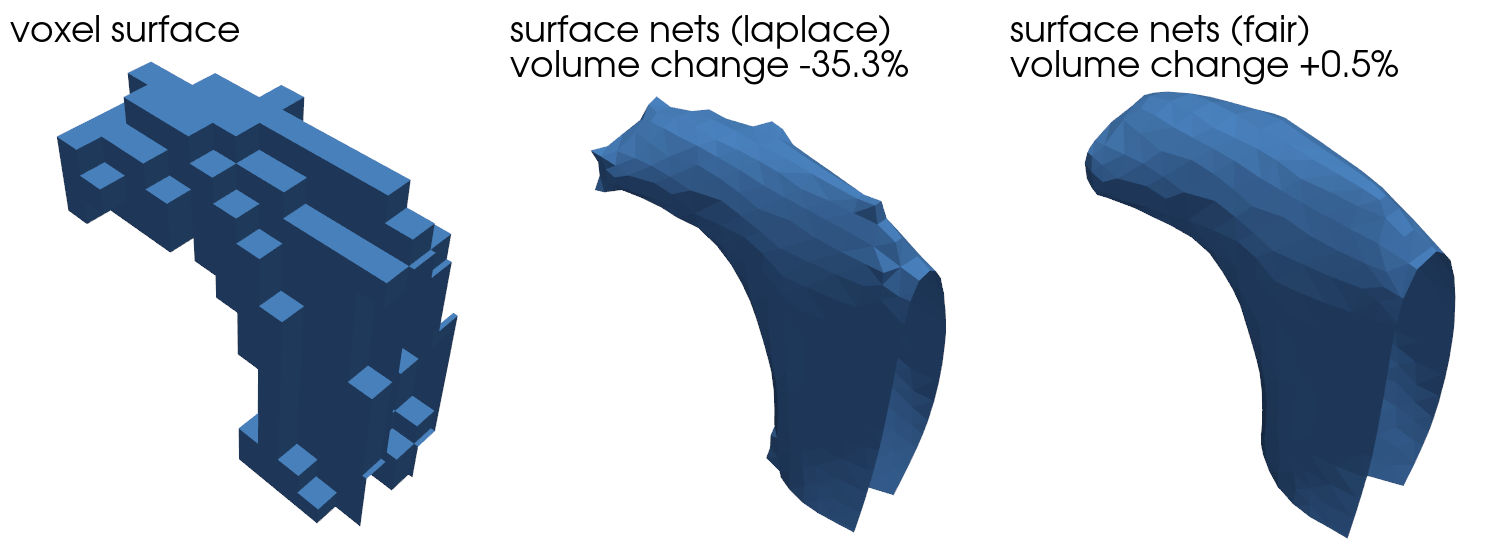
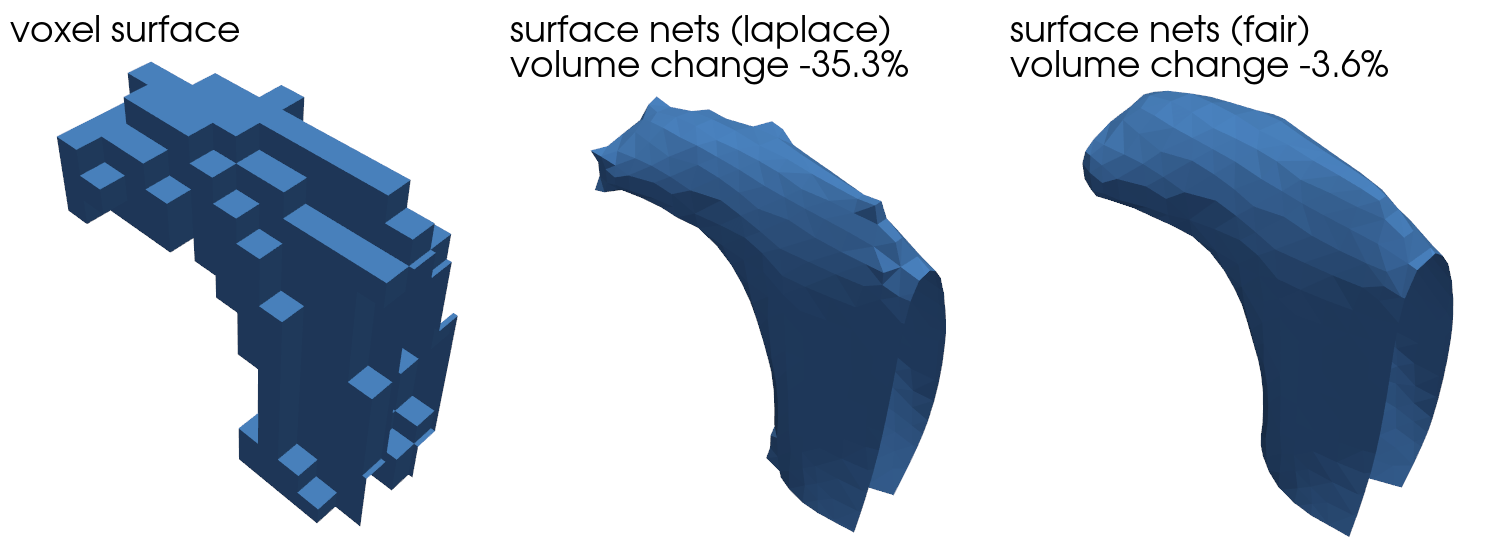
surface: influence_radius for the fairing; figure of the fairing range
imagemesh's fairing is now local, with a bitwise range of influence
(influence_radius, default: no limit). emi-extract-surfaces passes
surface: influence_radius on. The readme describes the new fairing, its
speed and its volume behaviour; fairing.png is regenerated with the same
panels, and images/plot_fairing_range.py adds fairing_range.png (the same
cell without a limit and with ranges of 10, 50, 100 and 200 voxels).

diff --git a/images/plot_fairing_range.py b/images/plot_fairing_range.py
@@ -1,0 +1,63 @@
+"""
+The close-up of plot_fairing.py, faired with different ranges of influence
+(surface: influence_radius): no point of the surface depends on a voxel
+further away than this many voxels. The default has no limit.
+
+    python images/plot_fairing_range.py images/fairing_range.png [workdir]
+
+The processed image is cached in workdir (default: results/fairing_figure),
+shared with plot_fairing.py.
+"""
+
+import sys
+import time
+from pathlib import Path
+
+import numpy as np
+import pyvista as pv
+from imagemesh.surface import surface_quads
+
+sys.path.insert(0, str(Path(__file__).parent))
+import plot_fairing as pf  # noqa: E402
+
+from emimesh.extract_surfaces import extract_surface, prepare_labels  # noqa: E402
+
+RANGES = [None, 10, 50, 100, 200]
+
+
+def main(out, work):
+    img = pf.processed_image(Path(work))
+    grid = prepare_labels(img)
+    data = np.asarray(img.cell_data["data"])
+    labels, counts = np.unique(data[data > 0], return_counts=True)
+    voxel_volume = dict(zip(labels, counts * float(pf.DX) ** 3))
+    voxels = surface_quads(grid).triangulate()
+    extract_surface(img, method="fair", influence_radius=10)  # compile
+    columns = [("voxel surface", voxels)]
+    for r in RANGES:
+        t = time.perf_counter()
+        surf = extract_surface(img, method="fair", influence_radius=r)
+        name = "no limit (default)" if r is None else f"range {r} voxels"
+        columns.append((f"fair, {name} ({time.perf_counter() - t:.0f} s)", surf))
+    label = int(data[img.find_containing_cell(pf.CENTRE)])
+    focus = np.reshape(pf.cell_surface(voxels, label).bounds, (3, 2)).mean(axis=1)
+    focus[2] += 0.12 * pf.HALF  # room for the text above
+    p = pv.Plotter(shape=(2, 3), window_size=(1500, 1080), border=False)
+    for c, (title, surf) in enumerate(columns):
+        p.subplot(c // 3, c % 3)
+        p.add_mesh(pf.cell_surface(surf, label), color=pf.COLOUR, specular=0.3)
+        if c:
+            title += f"\nvolume change {pf.volume_change(surf, voxel_volume)[label]:+.1%}"
+        text = p.add_text(title, position=(0.02, 0.97), viewport=True, font_size=16)
+        text.GetTextProperty().SetVerticalJustificationToTop()
+        p.camera.focal_point = focus
+        p.camera.position = focus + 3.2 * pf.HALF * pf.DIRECTION
+        p.camera.up = (0, 0, 1)
+    p.screenshot(out)
+
+
+if __name__ == "__main__":
+    main(
+        sys.argv[1] if len(sys.argv) > 1 else "fairing_range.png",
+        sys.argv[2] if len(sys.argv) > 2 else "results/fairing_figure",
+    )

diff --git a/src/emimesh/clients/extract_surfaces.py b/src/emimesh/clients/extract_surfaces.py
@@ -10,6 +10,10 @@ def _float_or_none(v):
     return None if str(v).lower() == "none" else float(v)
 
 
+def _int_or_none(v):
+    return None if str(v).lower() == "none" else int(v)
+
+
 def main():
     parser = argparse.ArgumentParser(
         description="Extract the smoothed multi-label surface (surface nets) of a label image."
@@ -24,7 +28,8 @@ def main():
     )
     parser.add_argument(
         "--smoothing_iterations",
-        help="number of smoothing iterations (default: 16 for laplace, 40 for fair)",
+        help="number of smoothing iterations (default: 16 for laplace; fair: 100, or as "
+        "many as influence_radius allows)",
         type=int,
         default=None,
     )
@@ -34,6 +39,13 @@ def main():
         "fair: volume-preserving fairing bounded by the voxel surface",
         choices=["laplace", "fair"],
         default="laplace",
+    )
+    parser.add_argument(
+        "--influence_radius",
+        help="fair: range of influence in voxels: no point depends on a voxel further away "
+        "('none': no limit)",
+        type=_int_or_none,
+        default=None,
     )
     parser.add_argument("--alpha", help="fair: smoothness weight", type=float, default=30.0)
     parser.add_argument(
@@ -62,6 +74,7 @@ def main():
     if args.method == "fair":
         kwargs = dict(
             method="fair",
+            influence_radius=args.influence_radius,
             alpha=args.alpha,
             dead_zone=args.dead_zone,
             max_distance=args.max_distance,

diff --git a/readme.md b/readme.md
@@ -55,7 +55,8 @@ meshing:
 | `processing` | **`ncells`** | Keep only the `N` largest cells. |
 | `surface` | **`method`** | `laplace` (default) or `fair`; see [below](#surface-smoothing). |
 | | **`smoothing_scale`** | `laplace`: maximal displacement of the surface points, in voxels (default: 1.2). |
-| | **`smoothing_iterations`** | Number of smoothing iterations (default: 16 for `laplace`, 40 for `fair`). |
+| | **`smoothing_iterations`** | Number of smoothing iterations (default: 16 for `laplace`; 100 for `fair`, or as many as `influence_radius` allows). |
+| | **`influence_radius`** | `fair`: range of influence in voxels: no surface point depends on a voxel further away (default: no limit); see [below](#surface-smoothing). |
 | | **`max_distance`** | `fair`: maximal distance from the voxel surface, in voxels (default: 1). |
 | | **`dead_zone`** | `fair`: free motion along the normal, in voxels (default: 0.5). |
 | | **`alpha`** | `fair`: smoothness weight (default: 30). |
@@ -96,17 +97,22 @@ See `config_files/` for complete examples, e.g. `cappilary1.yml` for an ROI arou
 The surface nets have their points on the voxel corners. `surface: method` selects how they are smoothed:
 
 - `laplace` (default): constrained Laplacian smoothing; each point moves at most `smoothing_scale` voxels. It shrinks thin processes, and points that reach the limit form spikes.
-- `fair`: volume-preserving fairing. It minimizes the squared Laplacian of the surface, lets points move freely along the normal within `dead_zone` voxels, keeps the volume of every cell, and keeps every point within `max_distance` voxels of the voxel surface. The limit is enforced during the iterations, so it creates no spikes. It is slower (about 30 s for 10⁶ faces).
+- `fair`: volume-preserving fairing. It minimizes the squared Laplacian of the surface, lets points move freely along the normal within `dead_zone` voxels, and keeps every point within `max_distance` voxels of the voxel surface; the limit is enforced during the iterations, so it creates no spikes. A second pass restores the volume of every cell locally (the median cell changes by less than 0.1 %, small cells by a few percent). It is local: with `influence_radius: R`, no surface point depends on a voxel more than `R` voxels away (bitwise, independent of the number of threads), so a block cut out of the image gives the same surface as the whole image at points more than `R` voxels from the block's faces (if its voxel coordinates are the same numbers, e.g. integer nm). It takes about 15 s for 10⁶ faces without a limit, and 2–3 s with `influence_radius: 50`–`100`.
 
-Below, a close-up of a cell from a 2 µm cube of the FlyEM male CNS (16 nm voxels, `python images/plot_fairing.py images/fairing.png`), with the volume change of the whole cell. The Laplacian smoothing shrinks the cell by 35 % and leaves spikes; the fairing keeps its volume and has no spikes.
+Below, a close-up of a cell from a 2 µm cube of the FlyEM male CNS (16 nm voxels, `python images/plot_fairing.py images/fairing.png`), with the volume change of the whole cell. The Laplacian smoothing shrinks the cell by 35 % and leaves spikes; the fairing keeps most of its volume (−3.6 % for this small cell) and has no spikes.
 
 <img src='images/fairing.png' width='800'>
 
 ```yaml
 surface:
   method: fair
-  max_distance: 1   # voxels
+  max_distance: 1        # voxels
+  influence_radius: 100  # voxels (optional; default: no limit)
 ```
+
+The same cell faired with different ranges of influence (`python images/plot_fairing_range.py images/fairing_range.png`). Ten voxels leave room for only a few steps; from 50 voxels on, the surface is close to the unlimited one.
+
+<img src='images/fairing_range.png' width='800'>
 
 ### ECS share
 With `surface: ecs_share`, all cell–ECS interfaces are moved by a common offset until the ECS takes that share of the volume. The bounding box is kept, and cells and gaps stay at least `ecs_min_width` thick. Below, the ECS share of a dense crop is lowered from 23 % to 18 % (right: zoomed region, with the voxel grid).
